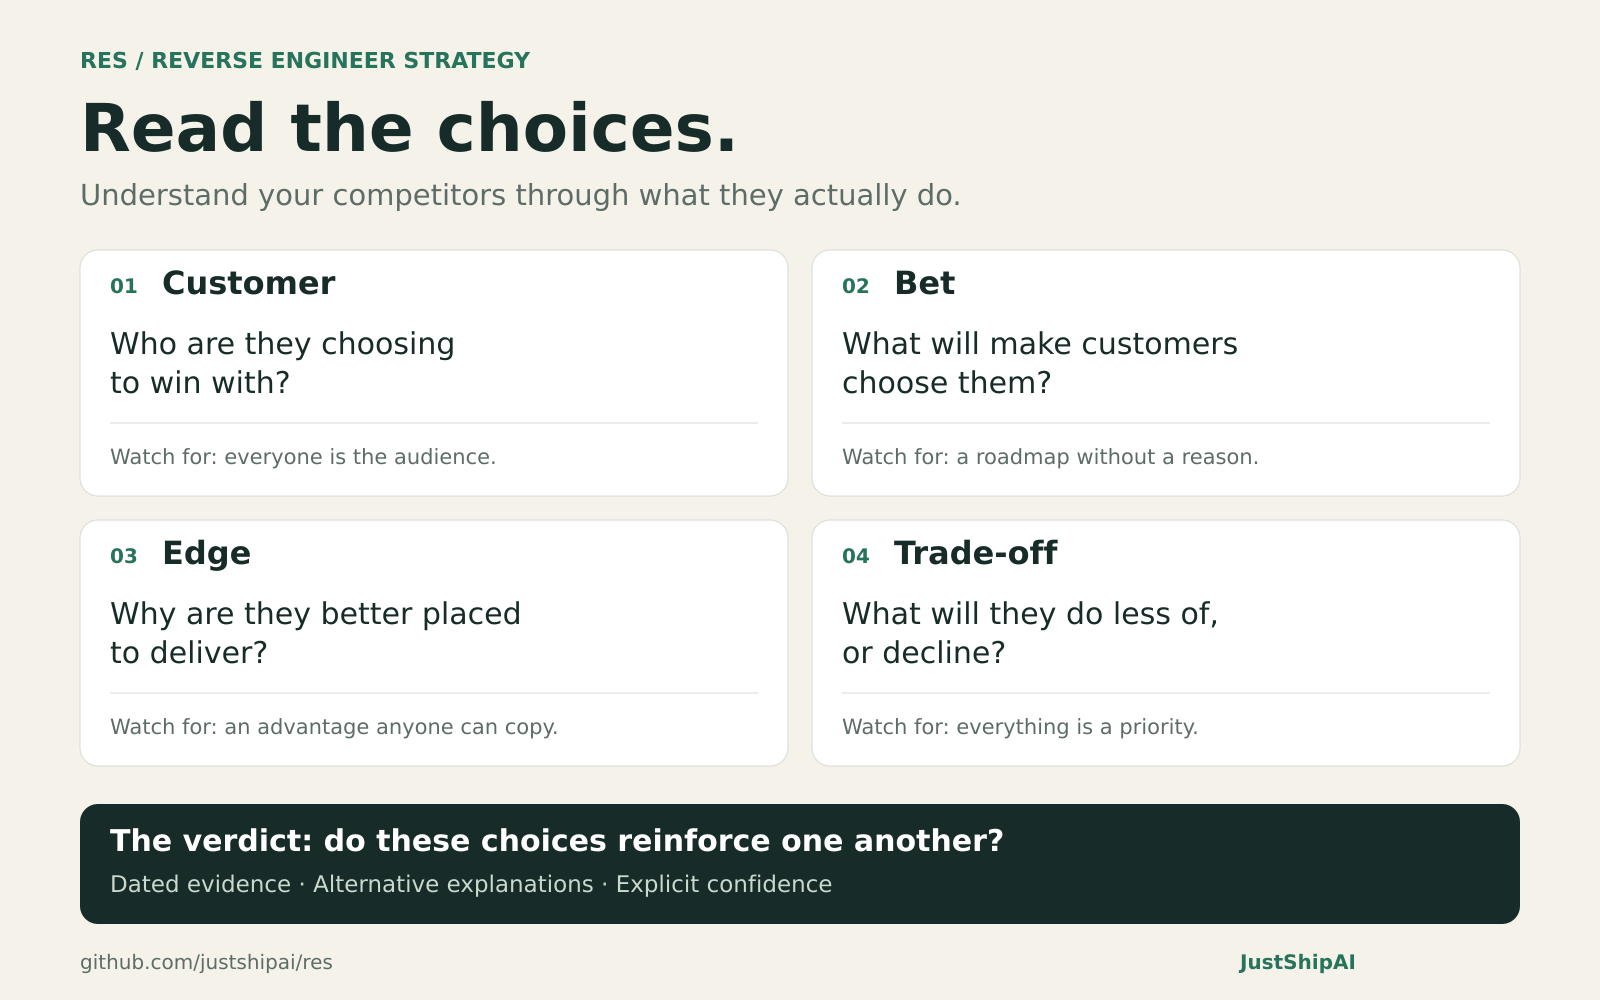
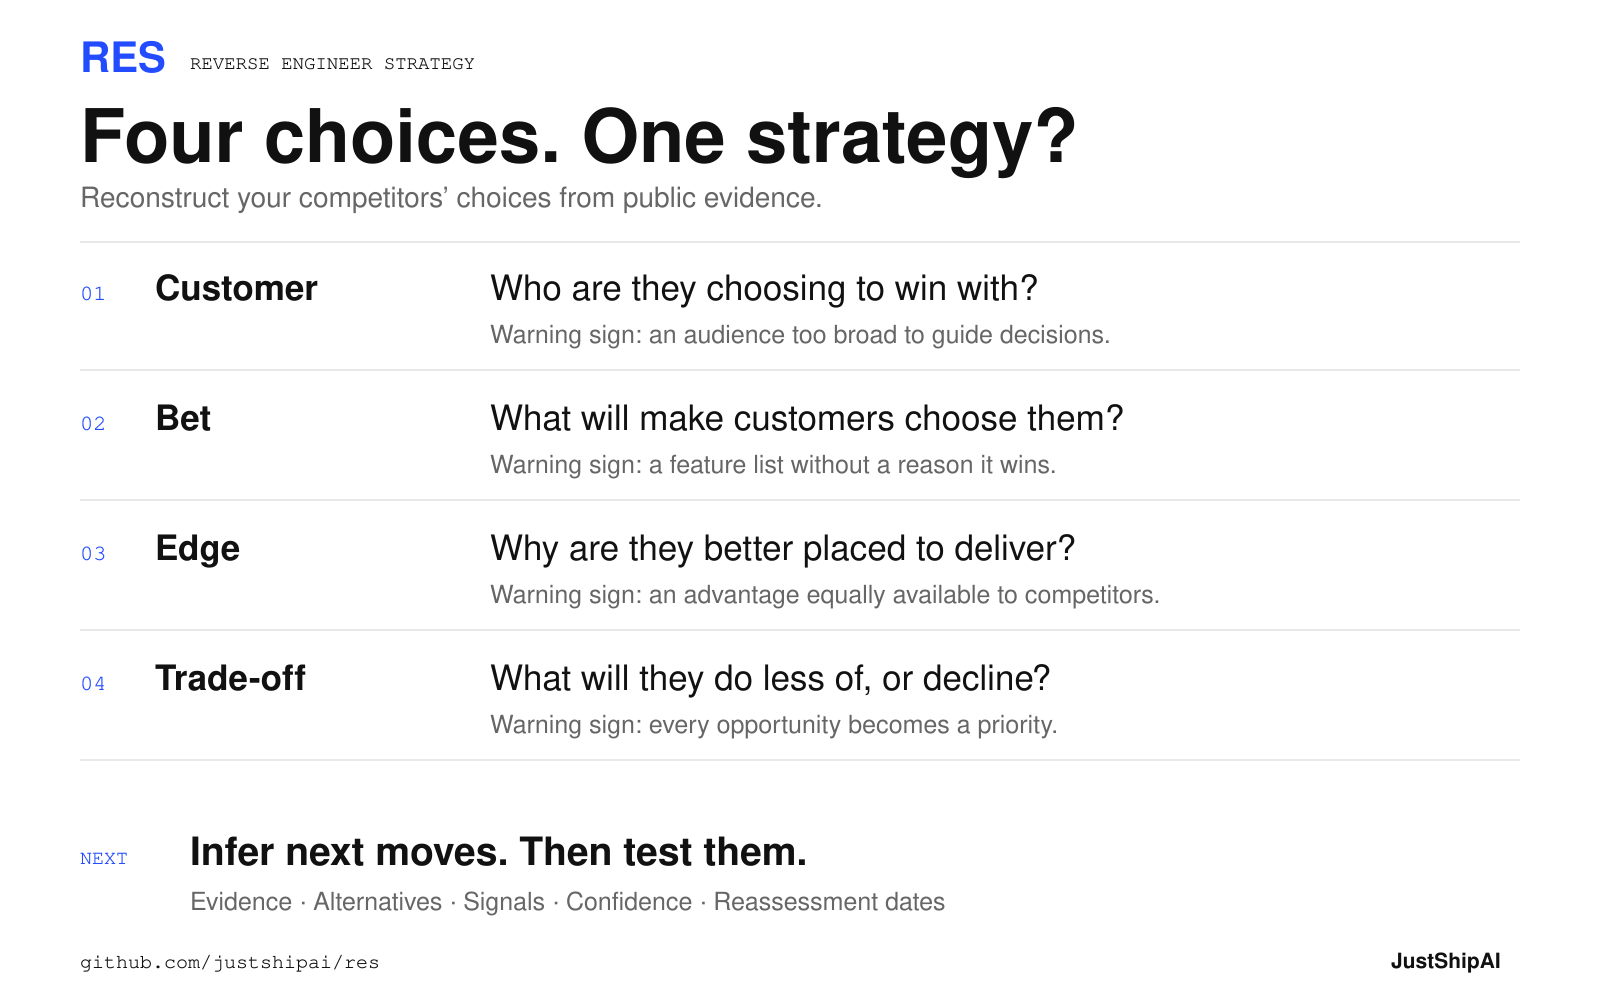
Add testable next-move theses and redesign RES visuals

diff --git a/README.md b/README.md
@@ -4,13 +4,13 @@
 
 **Reverse engineer your competitors’ strategy from what they ship.**
 
-Give RES a competitor. It investigates their releases, documentation, pricing and public communications to uncover who they're targeting, the bets they're making and where their strategy is vulnerable.
+Give RES a competitor. It investigates their releases, documentation, pricing and public communications to uncover who they're targeting, the bets they're making, where their strategy is vulnerable and what they might do next.
 
 Use it to understand a competitor's direction, investigate a suspected shift or turn scattered announcements into a clear strategic assessment.
 
 RES separates evidence from inference, challenges its conclusions and makes uncertainty visible.
 
-[Get started](#get-started) · [The four tests](#the-four-tests) · [Notion example](#example-notion) · [Read the skill](SKILL.md)
+[Get started](#get-started) · [The four tests](#the-four-tests) · [Forecasts](#what-could-come-next) · [Notion example](#example-notion) · [Read the skill](SKILL.md)
 
 ---
 
@@ -18,7 +18,7 @@ RES separates evidence from inference, challenges its conclusions and makes unce
 
 A strategy should make four choices clear. RES tests each against what the company actually does.
 
-![RES framework: Customer, Bet, Edge and Trade-off, tested against evidence and alternative explanations.](assets/res-framework.png)
+![RES framework: Customer, Bet, Edge and Trade-off, tested against evidence and alternatives, followed by testable next-move theses.](assets/res-framework.png)
 
 [Download PNG](assets/res-framework.png) · [Editable SVG](assets/res-framework.svg)
 
@@ -61,9 +61,17 @@ RES is an instruction-based skill. No API keys, server or custom runtime require
 - **A strategic thesis:** the choices that best explain the company's actions.
 - **Four evidence-backed tests:** inferred choices, dated sources, alternative explanations and confidence.
 - **A candid verdict:** whether the choices reinforce one another, the weakest link and its consequence.
-- **A signal to watch:** what would strengthen or overturn the assessment.
+- **Likely next moves:** testable theses with supporting evidence, alternatives, confidence, confirming and disconfirming signals, and a reassessment date.
 
-Run it again later to see which conclusions strengthened, weakened or changed.
+Run it again with the earlier report to see which conclusions changed and which predictions held up. RES reviews the evidence; it does not monitor companies automatically or assume access to previous reports.
+
+## What could come next?
+
+RES looks for unfinished sequences, newly enabled capabilities and pressures that could force a choice. It offers up to three specific theses, with an alternative, evidence that would strengthen or weaken each, and a date to reassess. It can return fewer when evidence is thin.
+
+Likely behaviour and good strategy are separate judgements. A predicted move can be a poor decision. Already-announced plans are labelled as such, not passed off as predictions.
+
+On a later run, give RES the earlier report. It preserves the original theses and marks them **supported, weakened, contradicted or unresolved**, rather than rewriting them to fit events. These are qualitative judgements, not calibrated probabilities.
 
 ## Example: Notion
 
@@ -106,6 +114,24 @@ Run it again later to see which conclusions strengthened, weakened or changed.
 The decisive question is whether Notion becomes the place teams maintain and govern working context, or an optional interface over data held elsewhere.
 
 **Watch next:** Renewal and expansion evidence from teams using external agents through Notion. Sustained workspace demand despite less use of Notion's own agent would strengthen the thesis; connections without recurring workflows would weaken it.
+
+### What could come next?
+
+*New hypotheses made on 28 October 2026, not claims about Notion's roadmap. Reassess both on 28 April 2027. The AI Command Center was already announced on [19 October](https://www.notion.com/releases/2026-10-19), so its arrival would not count as a RES prediction.*
+
+**1. Native approval and rollout controls for skills used by external agents.**
+
+- **Why:** [September's shared skills](https://www.notion.com/en-gb/releases/2026-09-15) and [October's Skills API](https://www.notion.com/releases/2026-10-13) extend team instructions across agents. Keeping approved instructions consistent becomes harder as distribution grows.
+- **Alternative:** Leave enforcement to agent providers and keep Notion as a library and export source.
+- **Signals:** Native approvals and pinned-version rollout would support it; further export-only releases or explicit delegation of enforcement would weaken it.
+- **Confidence: medium.** It follows the context-governance bet, but partner platforms may own the controls.
+
+**2. A separately priced offer for managing external agents.**
+
+- **Why:** [Bring-your-own AI and model-independent context](https://www.notion.com/blog/notion-ai-more-for-less) could increase workspace value without increasing Notion's execution credits. This creates a possible incentive to charge directly for managing external-agent work.
+- **Alternative:** Keep governance bundled into Business and Enterprise seats, as in the [current packaging](https://www.notion.com/pricing), and sell execution credits separately.
+- **Signals:** A dedicated external-agent management SKU would support it; expanded bundled controls with unchanged packaging would weaken it.
+- **Confidence: low.** The incentive is plausible, but public evidence does not establish buyer demand or commercial intent for a separate offer.
 
 *Limits: Primary sources establish reported capabilities and stated intent, not independent performance or commercial success. Research included official LinkedIn posts, such as [Notion's external-agent explanation](https://www.linkedin.com/posts/notionhq_how-notion-built-with-claude-managed-agents-activity-7447735838391709696-bo71); direct X posts were inaccessible. Current pricing was not assumed to apply throughout the period. This is a dated assessment, not a live report.*
 

diff --git a/SKILL.md b/SKILL.md
@@ -1,11 +1,11 @@
 ---
 name: res
-description: Reverse engineer and judge a company's product strategy through Customer, Bet, Edge and Trade-off, using public releases, documentation, pricing and communications. Use for competitor research, strategic critique or assessing changes in direction.
+description: Reverse engineer and judge a company's product strategy through Customer, Bet, Edge and Trade-off, using public releases, documentation, pricing and communications. Use for competitor research, strategic critique, likely next moves or changes in direction.
 ---
 
 # Reverse Engineer Strategy (RES)
 
-Reconstruct the choices behind a company's actions, then judge whether they form a credible strategy. Distinguish evidence from inference.
+Reconstruct the choices behind a company's actions, judge whether they form a credible strategy, then infer likely next moves. Distinguish evidence from inference.
 
 ## Scope
 
@@ -47,7 +47,7 @@ Lead with a short thesis, plain verdict and overall confidence. No numerical str
 
 For each test, state the inferred choice, dated linked evidence, strongest challenge, and confidence with a reason. Keep evidence and inference visibly distinct.
 
-Close with a strategic critique:
+Follow with a strategic critique:
 - Name the weakest link and its consequence.
 - Explain which choices reinforce or undermine one another.
 - Judge whether this is a credible strategy, poorly defined ambition, or mainly a roadmap. Call out fragmentation or erratic execution when supported.
@@ -55,4 +55,12 @@ Close with a strategic critique:
 
 Be concise; avoid repeated evidence. Include timelines or inventories only when explanatory. Add implications for the user's business only when requested and sufficiently understood.
 
-On repeat runs, identify conclusions that strengthened, weakened or changed. Preserve uncertainty rather than rewriting history.
+## What could come next?
+
+After the critique, offer up to three testable theses; fewer or none when evidence is weak. Derive them from unfinished investment sequences, enabling capabilities, dependencies, competitive pressures or economic constraints. Forecast likely behaviour, not recommended behaviour; a likely move may be strategically poor.
+
+For each, give a specific expected move, dated supporting evidence and causal reasoning, a credible alternative, confirming and disconfirming signals, confidence with a reason, and a reassessment date. Default to a three-to-six-month horizon; justify longer ones. Avoid false precision.
+
+Check whether the move is already shipped or announced. Label announced plans separately, never as original predictions. Do not fill a quota with generic trends.
+
+On repeat runs, retain original theses, dates and horizons; mark each supported, weakened, contradicted or unresolved against new linked evidence. A missed deadline or missing public evidence alone need not prove contradiction. Use earlier reports only when available; never invent memory. Identify changed conclusions without rewriting history.
